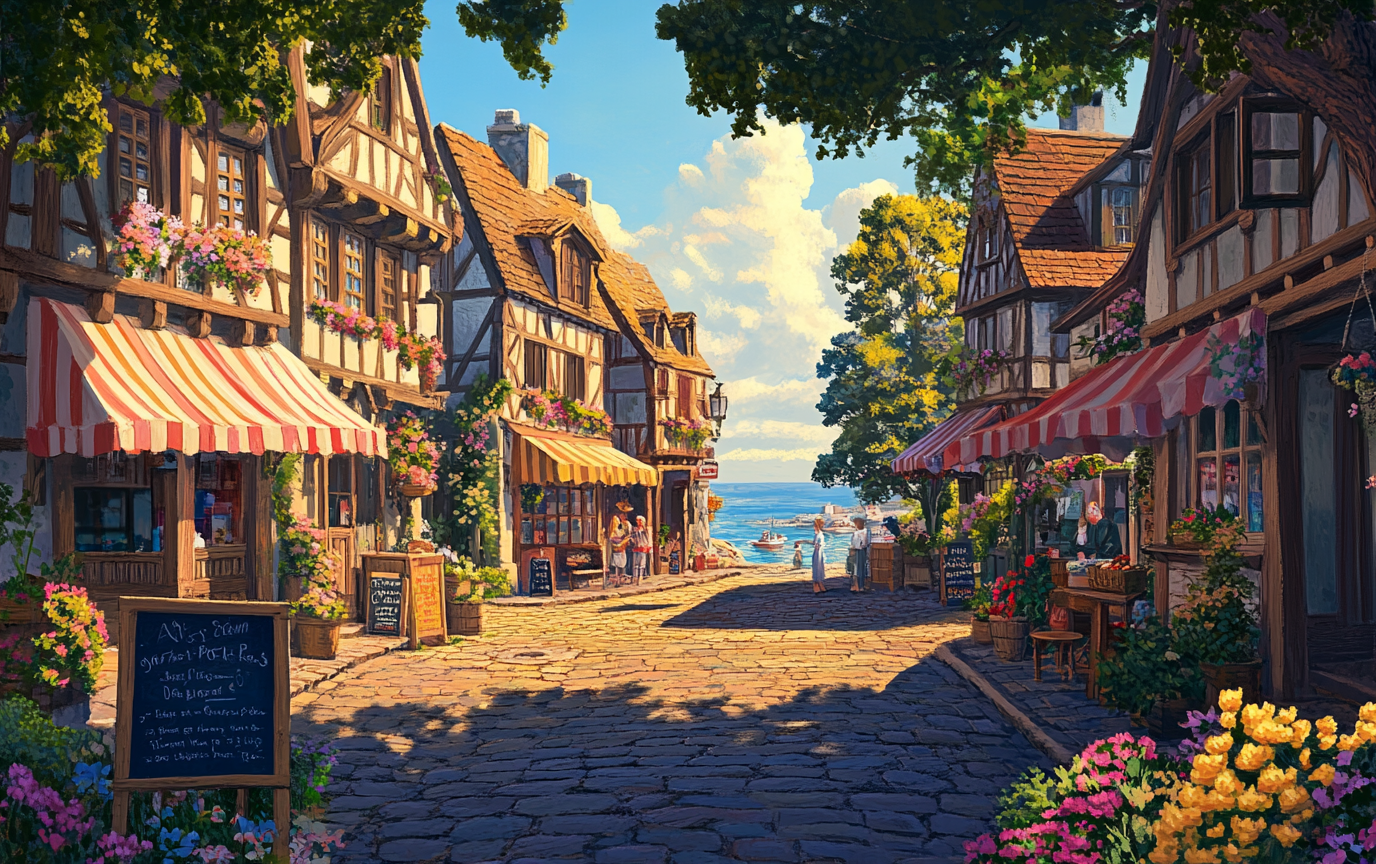
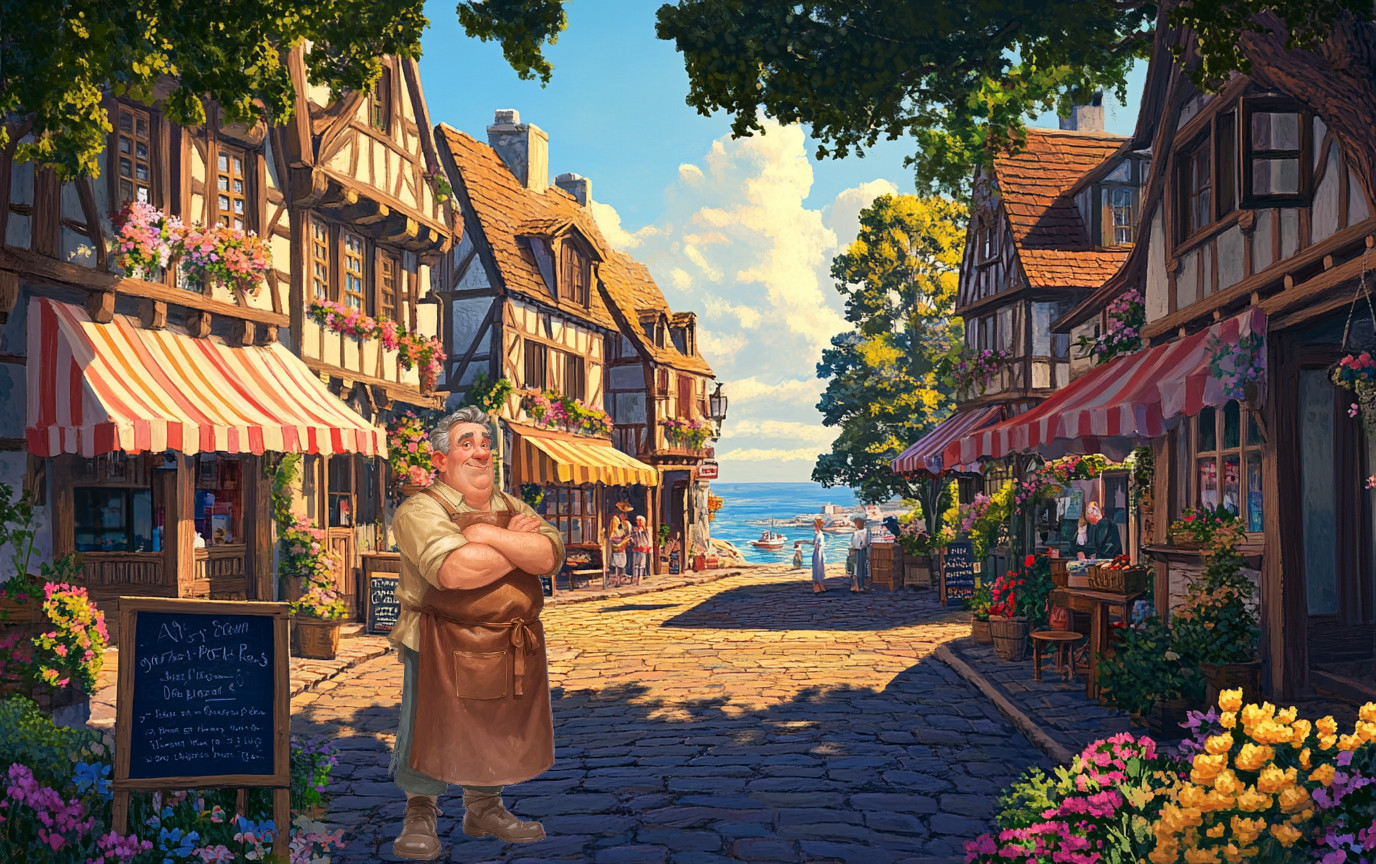
Replace background art with new images; reposition hotspots on characters
- Replace cresthollow, harbor-office, palace-library, queens-chamber backgrounds
  with new artwork containing actual characters baked into the scenes
- Add wayne-shack-.png (replaces wayne-shack.jpg) with Wayne and Jennibelle
- Remove all character sprite overlays (Bram, Farris, Wayne, Jennibelle,
  Mackenzie, Birdie) — characters are now part of the background images
- Reposition all character hotspots to center on individuals in new art:
    Bram: W*0.18 x, WH*0.50 y (left side, village square)
    Farris: W*0.60 x, WH*0.42 y (center-right, by harbor window)
    Wayne: W*0.39 x, WH*0.55 y (center-left, beach)
    Jennibelle: W*0.64 x, WH*0.52 y (right side, beach)
    Mackenzie: W*0.72 x, WH*0.55 y (right side, near fireplace)
    Queen: W*0.60 x, WH*0.52 y (center, bed)
- Update book hotspots (PalaceLibrary) to bookshelves and reading desk
- Update desk/fireplace/window/cabinet bounds (EdwardFarris, PalaceLibrary)
  to match new background layouts
- Simplify WayneShackScene._refreshJennibelle — hotspot-only, no sprite
- Simplify QueensChamberScene._birdieCutscene — dialogue-only, no sprite
- Center mist particles over Queen's bed
- Bump QueensChamberScene, PalaceLibraryScene, CresthollowScene,
  WayneShackScene, EdwardFarrisScene to ?v=3 for CDN cache-busting

Changed region(s): [[0.2812, 0.4688, 0.4375, 1.0]]

diff --git a/public/sisters-quest/js/scenes/WayneShackScene.js b/public/sisters-quest/js/scenes/WayneShackScene.js
@@ -7,7 +7,7 @@
 class WayneShackScene extends BaseScene {
   constructor() { super({ key: 'WayneShackScene' }); }
 
-  preload() { this.load.image('bg_wayne', 'assets/backgrounds/wayne-shack.jpg'); }
+  preload() { this.load.image('bg_wayne', 'assets/backgrounds/wayne-shack-.png'); }
 
   create() {
     MusicManager.play(this, 'music_beach');
@@ -33,23 +33,9 @@ class WayneShackScene extends BaseScene {
     this._initChairCoords(W, WH);
     this._drawFirePit(W, WH);
 
-    // Wayne portrait — left side of scene
-    // Warm glow backlight (draws the eye)
-    this.add.graphics().setDepth(0).fillStyle(0xc8956c, 0.18).fillEllipse(W * 0.26, WH * 0.88 - 130, 110, 260);
-    // Ground shadow
-    this.add.graphics().setDepth(0).fillStyle(0x000000, 0.30).fillEllipse(W * 0.26, WH * 0.88, 80, 20);
-    this.add.image(W * 0.26, WH * 0.88, 'sprite_wayne')
-      .setDisplaySize(140, 260).setOrigin(0.5, 1).setDepth(1);
-    this._wayneX = W * 0.26 + 21;
-    this._wayneY = this._chairY - 10;
-
-    // Jennibelle portrait — right side of scene (hidden until flag set)
-    this._jennibelleGlow = this.add.graphics().setDepth(0);
-    this._jennibelleGlow.fillStyle(0xc8956c, 0.18).fillEllipse(W * 0.72, WH * 0.88 - 130, 110, 260);
-    this._jennibelleGlow.setVisible(false);
-    this._jennibelleImg = this.add.image(W * 0.72, WH * 0.88, 'sprite_jennibelle')
-      .setDisplaySize(140, 260).setOrigin(0.5, 1).setDepth(1)
-      .setVisible(false);
+    // Character coordinates — Wayne and Jennibelle are in the background image
+    this._wayneX = W * 0.39;
+    this._wayneY = WH * 0.48;
 
     this._drawReturnArrow(W, WH);
 
@@ -96,19 +82,19 @@ class WayneShackScene extends BaseScene {
     // Surfboard hotspot bounds
     this._surfboardsBounds = { x: sX, y: WH * 0.37, w: sX + sW * 0.14 + 30, h: WH * 0.30 };
 
-    // Boat / dock coords (used by hotspots)
-    const dX = W * 0.72, dY = WH * 0.62, dW = W * 0.24, dH = WH * 0.10;
+    // Boat / dock coords — pier visible in background center-right
+    const dX = W * 0.58, dY = WH * 0.32, dW = W * 0.22, dH = WH * 0.14;
     const bX = dX + 14;
     this._boatX = bX + (dW - 28) / 2;
-    this._boatY = dY + dH - 6 + 20;   // approximate mid-hull
+    this._boatY = dY + dH / 2;
     this._dockX = dX;
-    this._dockY = WH * 0.62;
+    this._dockY = dY;
     this._dockW = dW;
-    this._dockH = dH + 40;
+    this._dockH = dH + 20;
 
-    // Jennibelle coords
-    this._jennibelleX = W * 0.72;
-    this._jennibelleY = WH * 0.60;
+    // Jennibelle coords — right side of background image
+    this._jennibelleX = W * 0.64;
+    this._jennibelleY = WH * 0.43;
   }
 
   // ── Wave animation layer ──────────────────────────────────
@@ -212,14 +198,8 @@ class WayneShackScene extends BaseScene {
   // ── Jennibelle (hidden until flag set) ───────────────────
 
   _refreshJennibelle() {
+    // Jennibelle is in the background image; just control hotspot interactivity
     const appeared = GameState.getFlag('jennibelle_appeared');
-    if (this._jennibelleImg) {
-      this._jennibelleImg.setVisible(appeared);
-    }
-    if (this._jennibelleGlow) {
-      this._jennibelleGlow.setVisible(appeared);
-    }
-    // Update hotspot interactivity
     const jHotspot = this._hotspots.find(h => h.def.id === 'jennibelle');
     if (jHotspot) {
       if (appeared) {
@@ -251,7 +231,7 @@ class WayneShackScene extends BaseScene {
     // ── Wayne ─────────────────────────────────────────────────
     this._addHotspot({
       id: 'wayne', name: 'Wayne Havasu',
-      x: this._wayneX, y: this._wayneY + 30, w: 64, h: 100,
+      x: this._wayneX, y: this._wayneY + 30, w: 75, h: 115,
       look: () => this._narrate("Wayne Havasu watches the ocean with the patience of someone who has made peace with the sea."),
       talk: () => this._talkToWayne(),
       take: () => this._narrate("Wayne Havasu is not available for taking."),
@@ -300,7 +280,7 @@ class WayneShackScene extends BaseScene {
     // ── Surfboards ────────────────────────────────────────────
     this._addHotspot({
       id: 'surfboards', name: 'Surfboards',
-      x: W * 0.04 + 20, y: WH * 0.55, w: 60, h: 90,
+      x: W * 0.21, y: WH * 0.55, w: 60, h: 90,
       look: () => this._narrate("Two surfboards, salt-worn and well-loved. One has a crack repaired with — yes, that's duct tape."),
       talk: () => this._narrate("The boards lean in contemplative silence."),
       take: () => this._narrate("You can't take Wayne's surfboards. They belong to him and the ocean."),
@@ -330,7 +310,7 @@ class WayneShackScene extends BaseScene {
     // ── Jennibelle ────────────────────────────────────────────
     this._addHotspot({
       id: 'jennibelle', name: 'Jennibelle',
-      x: this._jennibelleX + 4, y: this._jennibelleY + 38, w: 50, h: 88,
+      x: this._jennibelleX + 4, y: this._jennibelleY + 38, w: 70, h: 115,
       look: () => this._narrate("Jennibelle has the energy of someone who learned to surf before she learned to worry. She carries the board with the ease of long practice."),
       talk: () => {
         if (!GameState.getFlag('jennibelle_talked')) {

diff --git a/public/sisters-quest/js/scenes/QueensChamberScene.js b/public/sisters-quest/js/scenes/QueensChamberScene.js
@@ -22,8 +22,8 @@ class QueensChamberScene extends BaseScene {
     // ── Background image ──────────────────────────────────────
     this.add.image(W / 2, WH / 2, 'bg_queens').setDisplaySize(W, WH).setDepth(0);
 
-    // ── Animated queen mist pulse ─────────────────────────────
-    const hX = W/2 + 28, hY = WH - 175;
+    // ── Animated queen mist pulse — centered over the bed ─────
+    const hX = W * 0.60, hY = WH * 0.50;
     const mistG = this.add.graphics().setDepth(6);
     this.tweens.add({
       targets: mistG, alpha: { from: 0.4, to: 1.0 },
@@ -75,7 +75,7 @@ class QueensChamberScene extends BaseScene {
 
   _addMistParticles(W, H) {
     const WH = H - 156;
-    this.add.particles(W/2+20, WH-115, 'mist_particle', {
+    this.add.particles(W * 0.60, WH * 0.44, 'mist_particle', {
       x: { min: -78, max: 78 },
       y: { min: -18, max: 18 },
       alpha: { start: 0.16, end: 0 },
@@ -96,7 +96,7 @@ class QueensChamberScene extends BaseScene {
     const defs = [
       {
         id: 'queen', name: 'Queen Elara',
-        x: W/2+20, y: WH-158, w: 145, h: 82,
+        x: W*0.60, y: WH*0.52, w: 180, h: 100,
         look: () => this._queenLook(),
         talk: () => this._play(DIALOGUE_QUEEN_TALK),
         take: () => this._cantTake('Her Majesty'),
@@ -104,7 +104,7 @@ class QueensChamberScene extends BaseScene {
       },
       {
         id: 'tapestry', name: 'Tapestry of Elderwyn',
-        x: W/2, y: 108, w: 168, h: 128,
+        x: W*0.62, y: WH*0.18, w: 168, h: 120,
         look: () => this._tapestryLook(),
         talk: () => this._narrate("The tapestry doesn't respond. Tapestries rarely do."),
         take: () => this._cantTake('the tapestry'),
@@ -112,7 +112,7 @@ class QueensChamberScene extends BaseScene {
       },
       {
         id: 'tea', name: 'Teacup',
-        x: W/2+138, y: WH-142, w: 50, h: 36,
+        x: W*0.86, y: WH*0.62, w: 60, h: 42,
         look: () => this._play(DIALOGUE_TEA),
         talk: () => this._narrate("The teacup has nothing useful to say."),
         take: () => this._cantTake('the teacup'),
@@ -124,7 +124,7 @@ class QueensChamberScene extends BaseScene {
       },
       {
         id: 'letter', name: "The Queen's Letter",
-        x: W/2+151, y: WH-102, w: 54, h: 40,
+        x: W*0.88, y: WH*0.70, w: 60, h: 44,
         look: () => this._play(DIALOGUE_LETTER_LOOK),
         talk: () => this._narrate("The sealed letter waits in silence."),
         take: () => this._letterTake(),
@@ -132,7 +132,7 @@ class QueensChamberScene extends BaseScene {
       },
       {
         id: 'book', name: 'Book of Ballads',
-        x: W/2+138, y: WH-76, w: 44, h: 20,
+        x: W*0.84, y: WH*0.78, w: 54, h: 28,
         look: () => this._play(DIALOGUE_BOOK_LOOK),
         talk: () => this._narrate("It's a book. It does not answer."),
         take: () => this._bookTake(),
@@ -256,32 +256,10 @@ class QueensChamberScene extends BaseScene {
   // ── Birdie cutscene ─────────────────────────────────────────
 
   _birdieCutscene() {
-    const W = this.scale.width;
-    const H = this.scale.height;
-    const WH = H - 156;
-
-    const targetX = W * 0.14; // where she ends up (left area)
-    const birdieImg = this.add.image(W + 80, WH * 0.88, 'sprite_birdie')
-      .setDisplaySize(140, 260).setOrigin(0.5, 1).setDepth(2);
-
-    this.tweens.add({
-      targets: birdieImg,
-      x: targetX,
-      duration: 650,
-      ease: 'Power2.easeOut',
-      onComplete: () => {
-        this._play(DIALOGUE_BIRDIE_ENTRANCE, () => {
-          GameState.setFlag('birdie_done', true);
-          this.tweens.add({
-            targets: birdieImg,
-            x: W + 80,
-            duration: 500,
-            ease: 'Power2.easeIn',
-            onComplete: () => birdieImg.destroy(),
-          });
-          this.setStatus('Use the door on the right to go to the Library.');
-        });
-      },
+    // Birdie is already present in the background — play dialogue directly
+    this._play(DIALOGUE_BIRDIE_ENTRANCE, () => {
+      GameState.setFlag('birdie_done', true);
+      this.setStatus('Use the door on the right to go to the Library.');
     });
   }
 

diff --git a/public/sisters-quest/js/scenes/PalaceLibraryScene.js b/public/sisters-quest/js/scenes/PalaceLibraryScene.js
@@ -62,9 +62,7 @@ class PalaceLibraryScene extends BaseScene {
       fontFamily:'Georgia, serif', fontSize:'10px', color:'#4a3010', fontStyle:'italic'
     }).setOrigin(0.5).setDepth(4);
 
-    // ── Mackenzie character ───────────────────────────────────
-    this.add.image(W * 0.20, WH - 80, 'sprite_mackenzie')
-      .setDisplaySize(120, 270).setOrigin(0.5, 1).setDepth(1);
+    // Mackenzie is in the background image (right side, near fireplace)
 
     this.add.text(W / 2, 18, "The Palace Library  ·  Palace of Elderwyn", {
       fontFamily: 'Georgia, serif', fontSize: '12px',
@@ -110,7 +108,7 @@ class PalaceLibraryScene extends BaseScene {
     const defs = [
       {
         id: 'book_fibers', name: '"Magical Fibers of the Known World"',
-        x: W*0.20, y: WH*0.35, w: 118, h: 95,
+        x: W*0.18, y: WH*0.32, w: 118, h: 95,
         look: () => this._play([{ speaker:'cambrie', text:"'Magical Fibers of the Known World.' This has everything on moonveil thread. Let me take it." }]),
         talk: () => this._narrate("Books don't talk. In this palace you've stopped assuming."),
         take: () => this._takeBook('magical_fibers', DIALOGUE_FIBERS_FOUND),
@@ -118,7 +116,7 @@ class PalaceLibraryScene extends BaseScene {
       },
       {
         id: 'book_curses', name: '"Curses of the Seventh Kind"',
-        x: W*0.47, y: WH*0.28, w: 118, h: 95,
+        x: W*0.27, y: WH*0.50, w: 118, h: 95,
         look: () => this._play([{ speaker:'cambrie', text:"'Curses of the Seventh Kind.' Grim but necessary reading." }]),
         talk: () => this._narrate("The book on curses looks as grim as expected."),
         take: () => this._takeBook('curses_seventh_kind', DIALOGUE_CURSES_FOUND),
@@ -126,7 +124,7 @@ class PalaceLibraryScene extends BaseScene {
       },
       {
         id: 'book_atlas', name: "The Weaver's Atlas",
-        x: W*0.66, y: WH*0.35, w: 118, h: 95,
+        x: W*0.46, y: WH*0.63, w: 118, h: 95,
         look: () => this._play([{ speaker:'cambrie', text:"The Weaver's Atlas. Maps of magical craftwork. If Vessa has a tower, this will know where." }]),
         talk: () => this._narrate("An atlas. It maps things that were woven, once."),
         take: () => this._takeBook('weavers_atlas', DIALOGUE_ATLAS_FOUND),
@@ -134,7 +132,7 @@ class PalaceLibraryScene extends BaseScene {
       },
       {
         id: 'mackenzie', name: 'Mackenzie',
-        x: W*0.20, y: WH-125, w: 60, h: 85,
+        x: W*0.72, y: WH*0.55, w: 70, h: 105,
         look: () => this._narrate("Your sister paces with the focused energy of someone who has decided action is imminent, plans or not."),
         talk: () => this._play(
           GameState.getFlag('atlas_done') ? [{ speaker:'mackenzie', text:"We have what we need. The door. Now." }]
@@ -145,7 +143,7 @@ class PalaceLibraryScene extends BaseScene {
       },
       {
         id: 'desk', name: 'Reading Desk',
-        x: W/2+100, y: WH-88, w: 230, h: 78,
+        x: W*0.47, y: WH*0.68, w: 220, h: 85,
         look: () => this._narrate("A large desk covered in research notes left by scholars who had the luxury of time. Someone was very interested in enchanted thread."),
         talk: () => this._narrate("The desk keeps its own counsel."),
         take: () => this._cantTake('the desk'),
@@ -162,7 +160,7 @@ class PalaceLibraryScene extends BaseScene {
       },
       {
         id: 'fireplace', name: 'Fireplace',
-        x: W-48, y: WH-130, w: 108, h: 158,
+        x: W*0.88, y: WH*0.62, w: 160, h: 200,
         look: () => this._narrate("The fire crackles warmly. In other circumstances this would be a pleasant room to spend an evening."),
         talk: () => this._narrate("The fire has nothing to add."),
         take: () => this._narrate("You are not going to take the fireplace."),

diff --git a/public/sisters-quest/js/scenes/EdwardFarrisScene.js b/public/sisters-quest/js/scenes/EdwardFarrisScene.js
@@ -31,14 +31,9 @@ class EdwardFarrisScene extends BaseScene {
 
     // ── World ──────────────────────────────────────────────────
     this._initSceneCoords(W, WH);
-    this._farrisX = W * 0.68;
-    this._farrisY = this._deskY - 68;
-    // Warm glow backlight (draws the eye)
-    this.add.graphics().setDepth(0).fillStyle(0xc8956c, 0.18).fillEllipse(W * 0.68, WH * 0.86 - 130, 110, 260);
-    // Ground shadow
-    this.add.graphics().setDepth(0).fillStyle(0x000000, 0.30).fillEllipse(W * 0.68, WH * 0.86, 80, 20);
-    this.add.image(W * 0.68, WH * 0.86, 'sprite_farris')
-      .setDisplaySize(140, 260).setOrigin(0.5, 1).setDepth(1);
+    // Character coordinates — Farris is in the background image (center-right, by the window)
+    this._farrisX = W * 0.60;
+    this._farrisY = WH * 0.37;
 
     // ── Stamp animation ────────────────────────────────────────
     this._stampY = 0;
@@ -72,23 +67,23 @@ class EdwardFarrisScene extends BaseScene {
   // ── Scene coordinate initialiser ──────────────────────────
 
   _initSceneCoords(W, WH) {
-    // Filing cabinet bounds (used by hotspots)
+    // Left wall — maps, charts, navigation instruments
     this._leftCabX  = 0;
-    this._leftCabW  = W * 0.22;
+    this._leftCabW  = W * 0.46;
     this._rightCabX = W * 0.84;
     this._rightCabW = W * 0.16;
 
-    // Harbor window bounds
-    this._windowX = W * 0.56;
-    this._windowY = WH * 0.08;
-    this._windowW = W * 0.24;
-    this._windowH = WH * 0.34;
+    // Harbor window bounds — center-right behind Farris
+    this._windowX = W * 0.53;
+    this._windowY = WH * 0.07;
+    this._windowW = W * 0.29;
+    this._windowH = WH * 0.50;
 
-    // Desk bounds (also used by _drawFarris)
-    this._deskX = W * 0.22;
-    this._deskY = WH * 0.48;
-    this._deskW = W * 0.58;
-    this._deskH = WH * 0.26;
+    // Desk bounds — large wooden desk, left-center of room
+    this._deskX = W * 0.03;
+    this._deskY = WH * 0.50;
+    this._deskW = W * 0.52;
+    this._deskH = WH * 0.35;
 
     // Stamp position (used by animated arm in _drawFarris)
     this._stampBaseX = this._deskX + this._deskW * 0.60 + 11;
@@ -108,7 +103,7 @@ class EdwardFarrisScene extends BaseScene {
     // ── Farris at desk ────────────────────────────────────────
     this._addHotspot({
       id: 'farris', name: 'Capt. Edward Farris',
-      x: this._farrisX, y: this._farrisY + 20, w: 72, h: 88,
+      x: this._farrisX, y: this._farrisY + 20, w: 80, h: 115,
       look: () => this._narrate("Capt. Edward Farris is a man who has found meaning in filing systems. Every paper on that desk is exactly where it should be. Probably in triplicate. The Good Ship Peabody is lucky to have him — when he's not here stamping forms."),
       talk: () => this._talkToFarris(),
       take: () => this._narrate("Capt. Farris would not appreciate that."),

diff --git a/public/sisters-quest/js/scenes/CresthollowScene.js b/public/sisters-quest/js/scenes/CresthollowScene.js
@@ -31,14 +31,9 @@ class CresthollowScene extends BaseScene {
     // ── Thornwood gate, notice board, Bram, path arrows ───────
     this._drawThornwoodGate(W, WH);
     this._drawNoticeBoard(W, WH);
-    this._bramX = W * 0.16;
-    this._bramY = WH * 0.58;
-    // Warm glow backlight (draws the eye)
-    this.add.graphics().setDepth(0).fillStyle(0xc8956c, 0.18).fillEllipse(W * 0.16, WH * 0.88 - 130, 110, 260);
-    // Ground shadow
-    this.add.graphics().setDepth(0).fillStyle(0x000000, 0.30).fillEllipse(W * 0.16, WH * 0.88, 80, 20);
-    this.add.image(W * 0.16, WH * 0.88, 'sprite_bram')
-      .setDisplaySize(140, 260).setOrigin(0.5, 1).setDepth(1);
+    // Character coordinates — Bram is in the background image
+    this._bramX = W * 0.18;
+    this._bramY = WH * 0.41;
     this._drawPathArrows(W, WH);
 
     // ── Dialogue ──────────────────────────────────────────────
@@ -266,7 +261,7 @@ class CresthollowScene extends BaseScene {
     // ── Bram ─────────────────────────────────────────────────
     this._addHotspot({
       id: 'bram', name: 'Bram (Innkeeper)',
-      x: this._bramX, y: this._bramY + 40, w: 60, h: 100,
+      x: this._bramX, y: this._bramY + 40, w: 75, h: 120,
       look: () => this._narrate("The innkeeper watches the gate with the expression of a man who has given up being surprised."),
       talk: () => this._talkToBram(),
       take: () => this._narrate("You cannot take the innkeeper. He would resist."),

diff --git a/public/sisters-quest/index.html b/public/sisters-quest/index.html
@@ -109,12 +109,12 @@
   <script src="js/scenes/BaseScene.js?v=2"></script>
   <script src="js/scenes/BootScene.js?v=2"></script>
   <script src="js/scenes/MenuScene.js?v=2"></script>
-  <script src="js/scenes/QueensChamberScene.js?v=2"></script>
-  <script src="js/scenes/PalaceLibraryScene.js?v=2"></script>
+  <script src="js/scenes/QueensChamberScene.js?v=3"></script>
+  <script src="js/scenes/PalaceLibraryScene.js?v=3"></script>
   <script src="js/scenes/Act1EndScene.js?v=2"></script>
-  <script src="js/scenes/CresthollowScene.js?v=2"></script>
-  <script src="js/scenes/WayneShackScene.js?v=2"></script>
-  <script src="js/scenes/EdwardFarrisScene.js?v=2"></script>
+  <script src="js/scenes/CresthollowScene.js?v=3"></script>
+  <script src="js/scenes/WayneShackScene.js?v=3"></script>
+  <script src="js/scenes/EdwardFarrisScene.js?v=3"></script>
   <script src="js/scenes/TideKingScene.js?v=2"></script>
   <script src="js/scenes/ThornwoodScene.js?v=2"></script>
   <script src="js/scenes/MirroredMereScene.js?v=2"></script>
